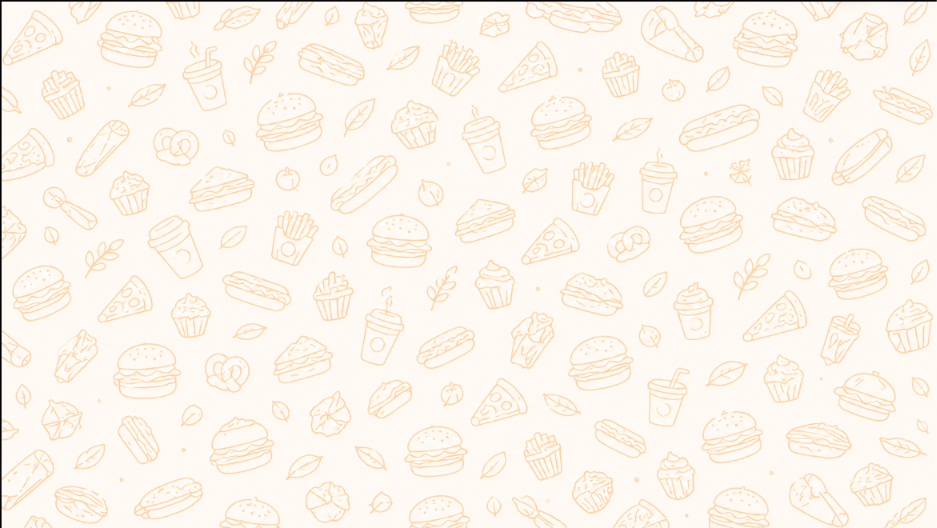
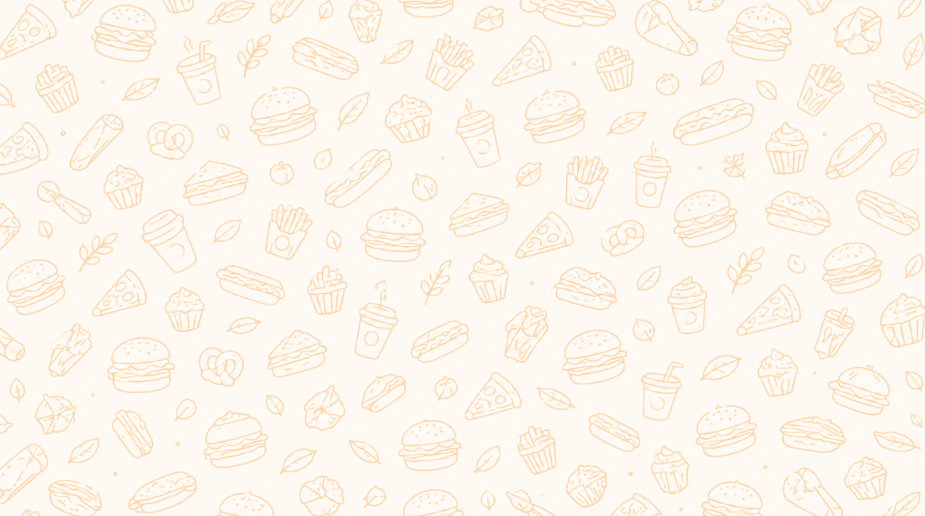
Remove background image border lines and apply soft blur effect

diff --git a/src/index.css b/src/index.css
@@ -474,12 +474,11 @@ h1, h2, h3, h4, .brand-title, .token-huge-num, .token-display-ready, .token-disp
   align-items: center;
   justify-content: center;
   background-color: #fdf6ee;
-  background-image: url('/images/food-doodle-bg.png');
-  background-repeat: repeat;
-  background-size: 700px auto;
   padding: 16px 20px;
   box-sizing: border-box;
   min-height: 100vh;
+  position: relative;
+  overflow: hidden;
 }
 
 .auth-page-outer {
@@ -493,22 +492,41 @@ h1, h2, h3, h4, .brand-title, .token-huge-num, .token-display-ready, .token-disp
   padding: 20px 16px;
   box-sizing: border-box;
   background-color: #fdf6ee;
+  position: relative;
+  overflow: hidden;
+  margin: auto;
+}
+
+/* Atmospheric blurred food doodle wallpaper (zero black lines) */
+.auth-page-outer::before {
+  content: "";
+  position: fixed;
+  top: -12px;
+  left: -12px;
+  right: -12px;
+  bottom: -12px;
   background-image: url('/images/food-doodle-bg.png');
   background-repeat: repeat;
-  background-size: 700px auto;
-  margin: auto;
+  background-size: 680px auto;
+  filter: blur(2.5px);
+  opacity: 0.88;
+  pointer-events: none;
+  z-index: 0;
 }
 
 .auth-footer-quick-access {
   display: flex;
   justify-content: center;
+  position: relative;
+  z-index: 1;
 }
 
 .auth-quick-queue-btn {
   display: inline-flex;
   align-items: center;
   gap: 6px;
-  background: rgba(255, 255, 255, 0.88);
+  background: rgba(255, 255, 255, 0.9);
+  backdrop-filter: blur(6px);
   border: 1px solid rgba(234, 88, 12, 0.28);
   color: #7c2d12;
   font-size: 0.82rem;
@@ -517,7 +535,7 @@ h1, h2, h3, h4, .brand-title, .token-huge-num, .token-display-ready, .token-disp
   border-radius: 20px;
   cursor: pointer;
   transition: all 0.15s ease;
-  box-shadow: 0 2px 8px rgba(0, 0, 0, 0.04);
+  box-shadow: 0 2px 8px rgba(0, 0, 0, 0.05);
 }
 
 .auth-quick-queue-btn:hover {
@@ -538,6 +556,7 @@ h1, h2, h3, h4, .brand-title, .token-huge-num, .token-display-ready, .token-disp
   box-shadow: 0 16px 45px -10px rgba(0, 0, 0, 0.16), 0 0 1px 1px rgba(0, 0, 0, 0.05);
   overflow: hidden;
   position: relative;
+  z-index: 1;
   border: 1px solid rgba(234, 88, 12, 0.12);
   box-sizing: border-box;
 }
